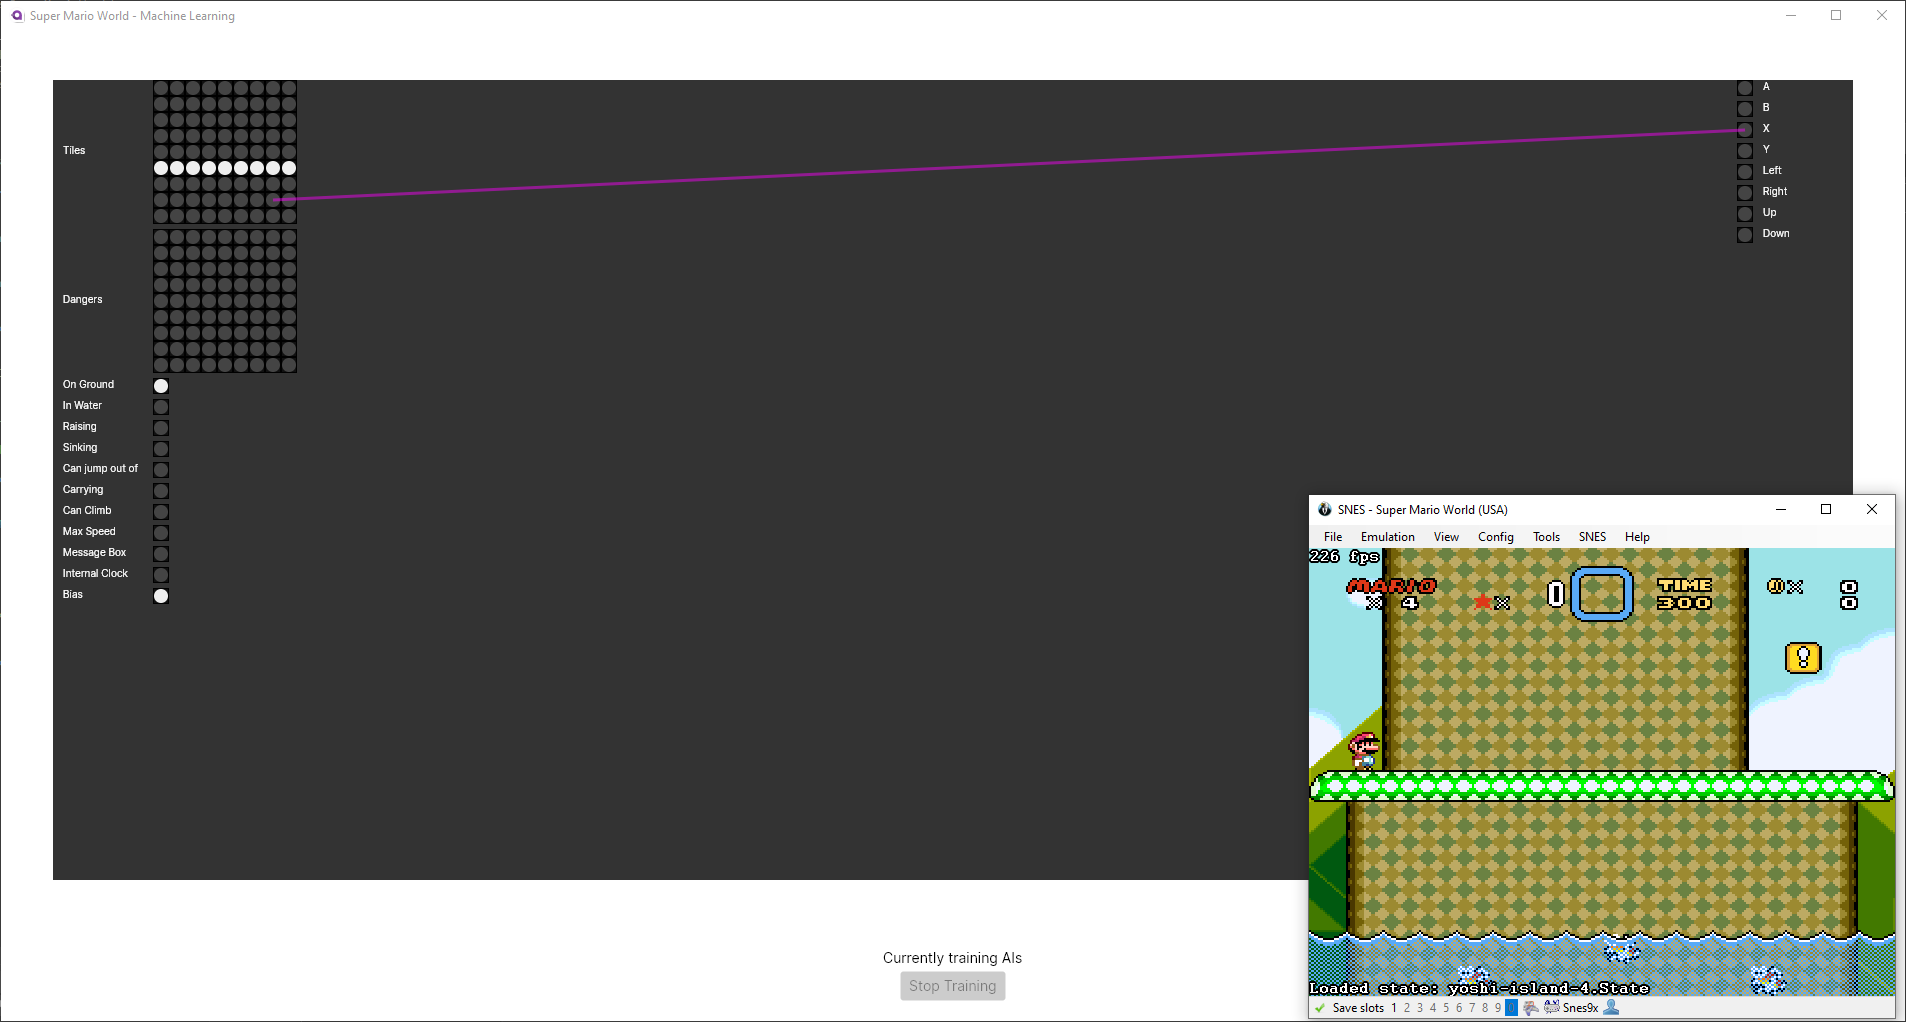
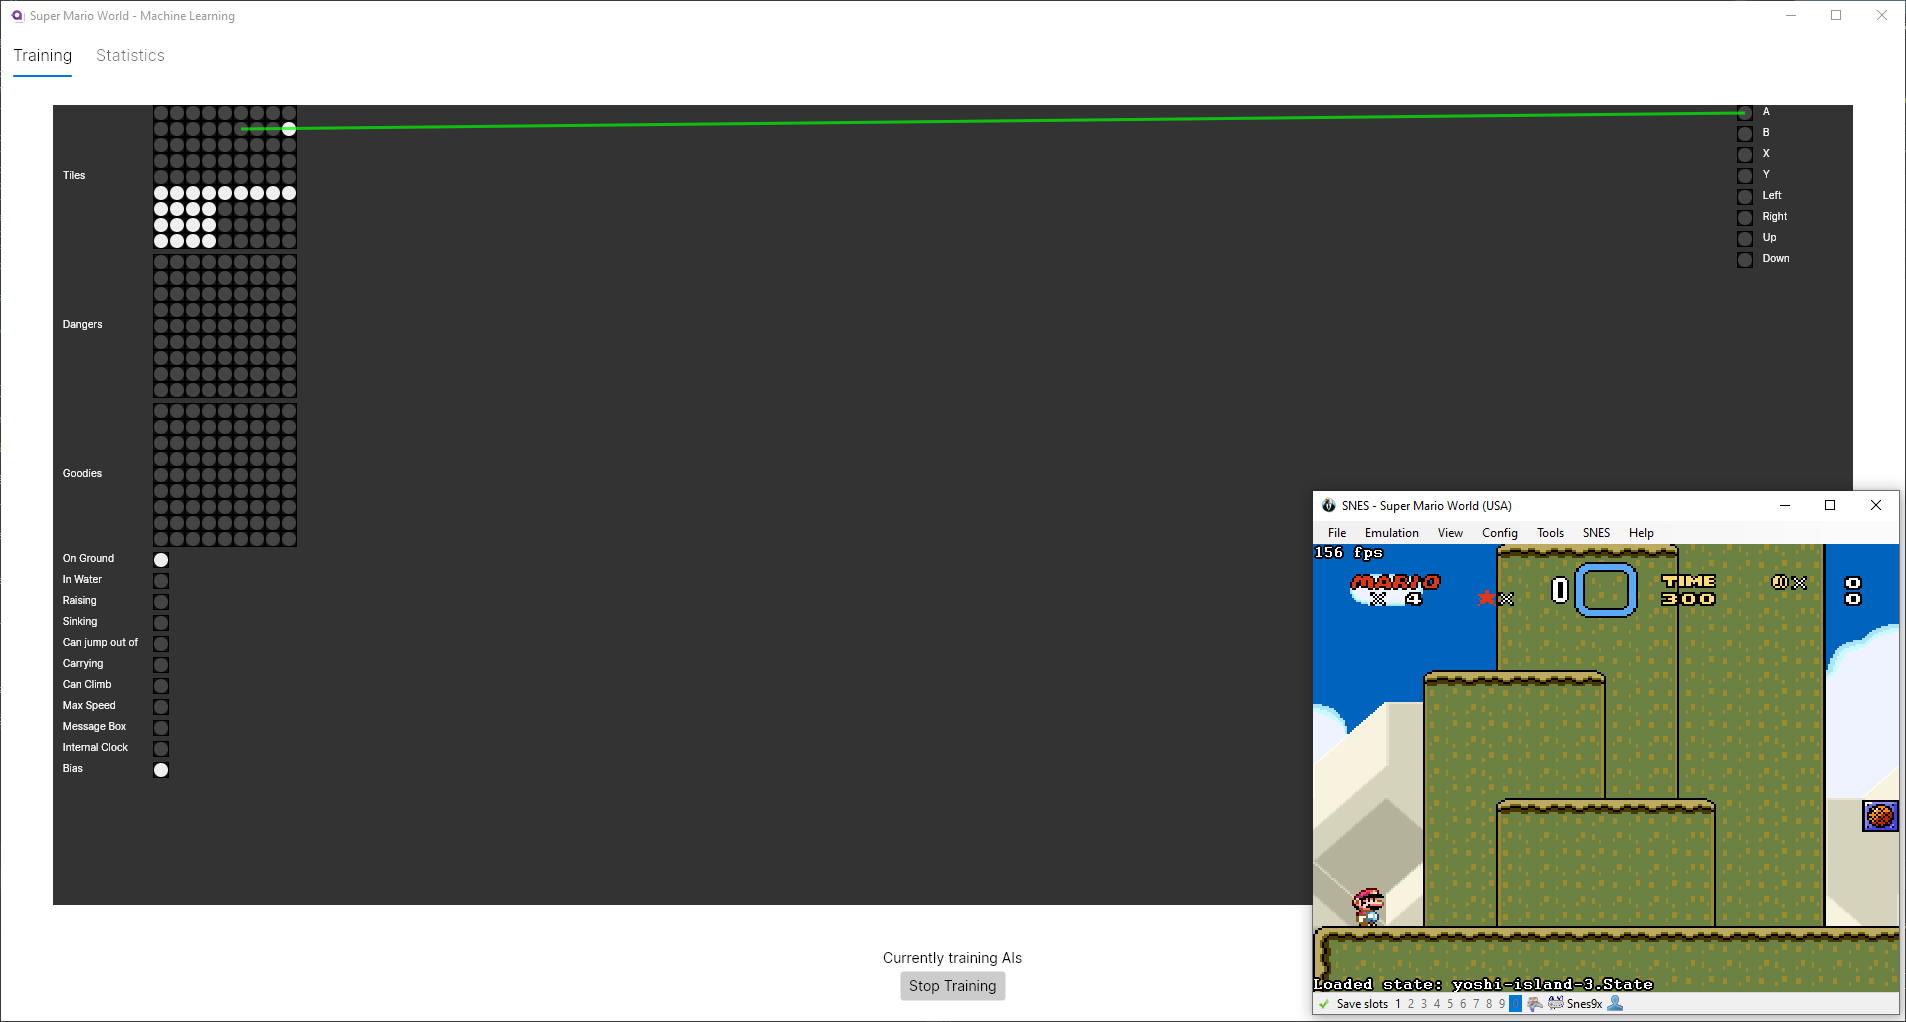
Updated README to add info about statistics

diff --git a/SMW-ML/Neural/Training/SharpNeat/SharpNeatTrainer.cs b/SMW-ML/Neural/Training/SharpNeat/SharpNeatTrainer.cs
@@ -152,7 +152,7 @@ namespace SMW_ML.Neural.Training.SharpNeatImpl
             ts.AddStat("Mean Fitness", currentAlgo!.Population.Stats.MeanFitness);
             ts.AddStat("Mean Complexity", currentAlgo!.Population.Stats.MeanComplexity);
             ts.AddStat("Maximum Complexity", currentAlgo!.Population!.Stats.MaxComplexity);
-            ts.AddStat("Evaluations per second", currentAlgo!.Stats.EvaluationsPerSec);
+            ts.AddStat("Evaluations per minute", currentAlgo!.Stats.EvaluationsPerSec * 60);
             ts.AddStat("Total evaluations so far", currentAlgo!.Stats.TotalEvaluationCount);
 
             return ts;

diff --git a/README.md b/README.md
@@ -39,8 +39,8 @@ To run the application, you first need to copy a Super Mario World rom file to t
 ## Using the application
 
 ### Main page
-
 ![Image of the main page of the application](docs/mainApp.png)  
+
 * **[Start training](#training-page)**
 * **[Play mode](#play-mode)**
 * **Load population**
@@ -50,17 +50,40 @@ To run the application, you first need to copy a Super Mario World rom file to t
 * **[Training Configuration](#configuration)**
 
 ### Training Page
-
-![Image of the training page](docs/training-training.png)  
 When entering this page, the training of AIs will be started automatically, using the [app's configuration](#configuration). Note that the UI might be unresponsive if too many emulator instances are running at once. Please do not close any emulators manually, as this will break the application.
+
+#### Training Tab
+![Image of the training page's training tab](docs/training-training.png)  
+
 * **Neural Network visualization**
   * Shows the first emulator's neural network structure and values. When the emulators finish booting, the emulator being represented will be the one on the bottom. The refresh rate of the preview will depend on the computer's performances, and having too many emulators running at once will affect it.
 * **Stop Training**
   * Will stop training at the end of the current generation. Please be patient if the population size is big, and not many emulators are running at once. It will return to the [main page](#main-page) once it is done.
+  
+#### Statistics Tab
+![Image of the training page's statistics tab](docs/training-stats.png)  
+
+This tab shows statistics of the current training session. They are updated at the end of every generation.
+* **Current generation**
+  * Shows the current generation number. Note that this number is reset whenever starting a new training session, even after loading an existing population.
+* **Best genome's fitness**
+  * The best AI's current score.
+* **Best genome's complexity**
+  * The amount of connections in the neural network of the best AI.
+* **Mean fitness**
+  * The average score of all the AIs.
+* **Mean complexity**
+  * The average complexity (amount of connections in the neural network) of all the AIs.
+* **Maximum complexity**
+  * The maximum complexity of all the AIs.
+* **Evaluations per minute**
+  * The amount of AIs that are evaluated per minute.
+* **Total evaluations so far**
+  * The amount of AIs evaluated since the start of training.
 
 ### Play Mode
+![Image of the play mode page](docs/playmode.png)  
 
-![Image of the play mode page](docs/playmode.png)
 This page is used to make specific genomes play on specific levels, both of them being manually selected. It is a good way to check the abilities of a genome on levels that aren't part of its training-set.
 * **Load Genome**
   * Loads the genome to use for the play mode. Selecting a new genome while the play mode is running reloads the save state and starts it again using the new genome.
@@ -77,6 +100,7 @@ This page is used to make specific genomes play on specific levels, both of them
 
 #### Training
 ![Image of the neural network configuration menu](docs/config-training.png)  
+
 * **Number of AIs**
   * Determines the total population size of the training. Making it too big will make evolution really slow, while making it too small will make break-throughs extremely rare.
 * **Species count**
@@ -88,6 +112,7 @@ This page is used to make specific genomes play on specific levels, both of them
 
 #### Application
 ![Image of the app configuration menu](docs/config-app.png)  
+
 * **Multithread**
   * This is the amount of emulators which will be booted while training. It is recommended to not put this value higher than the amount of cores within your computer, as performance will be greatly affected. For the fastest training, at the cost of using up all of the CPU resources available, set to the exact amount of cores in your computer. Otherwise, set to a lower value.
 * **Communication Port with Arduino**
@@ -100,6 +125,7 @@ This page is used to make specific genomes play on specific levels, both of them
 
 #### Objectives
 ![Image of the objectives configuration menu](docs/config-objectives.png)  
+
 This page lists all of the available training objectives. Some of them cannot be disabled, but the multiplier can be set to 0 so it won't affect the score, at least. The values pictured are the recommended values when training AIs from nothing, but you may experiment at your leisure.
 * **Enabled**
   * Whether or not this objective will affect the score.
@@ -108,6 +134,7 @@ This page lists all of the available training objectives. Some of them cannot be
   * The amount by which to multiply the objective's score.
 
 ##### Objectives information
+
 * **Died**
   * The amount of points to attribute to an AI that died. 
   * It is recommended to set this value to a negative value to discourage AIs from killing themselves.
@@ -134,6 +161,7 @@ This page lists all of the available training objectives. Some of them cannot be
   
 #### Neural
 ![Image of the neural configuration menu](docs/config-neural.png)  
+
 This page lists all of the inputs and outputs that can be toggled for the neural networks, as well as the distance (in tiles) that the AI can see.  
 ⚠ Changing any of these values will make previously trained AIs incompatible with the application ⚠
 * **View distance horizontal**
